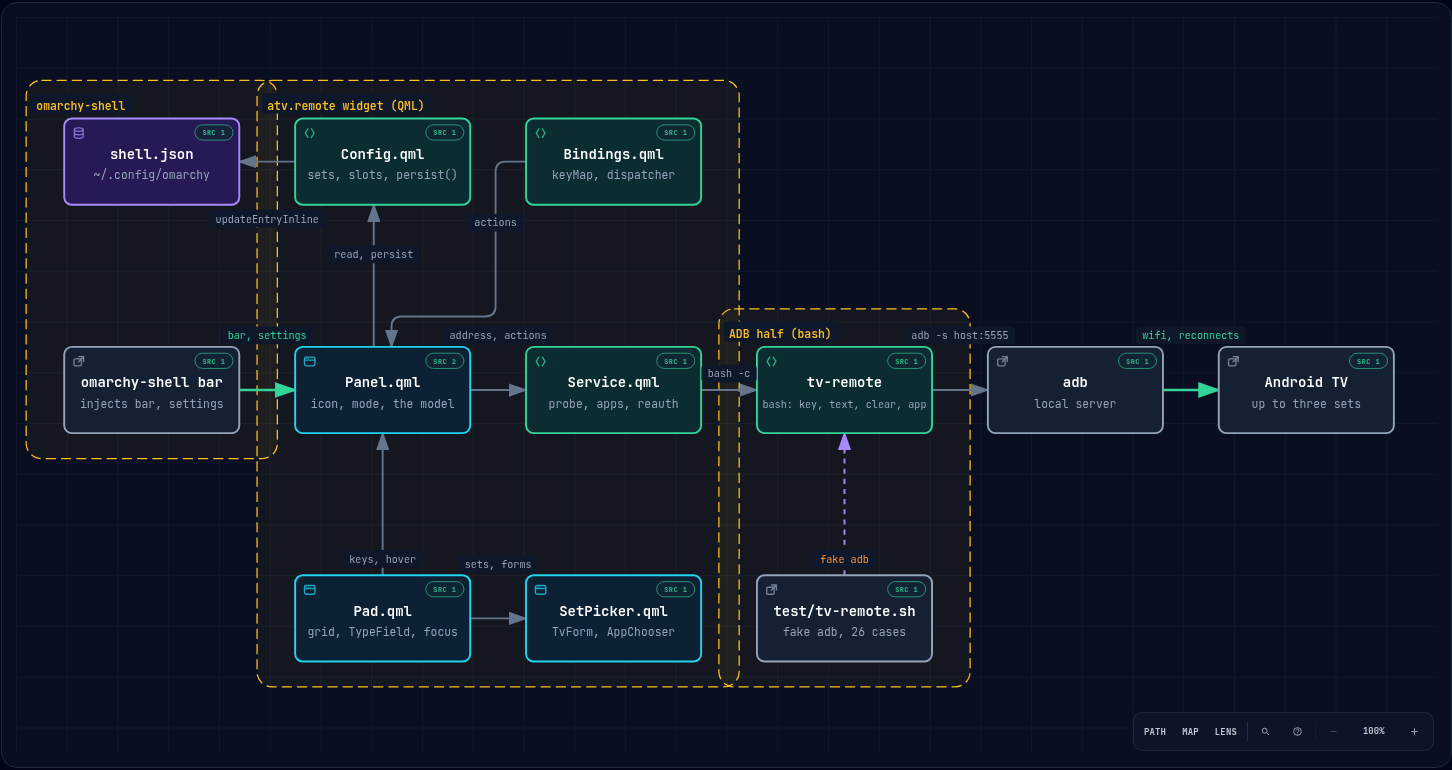
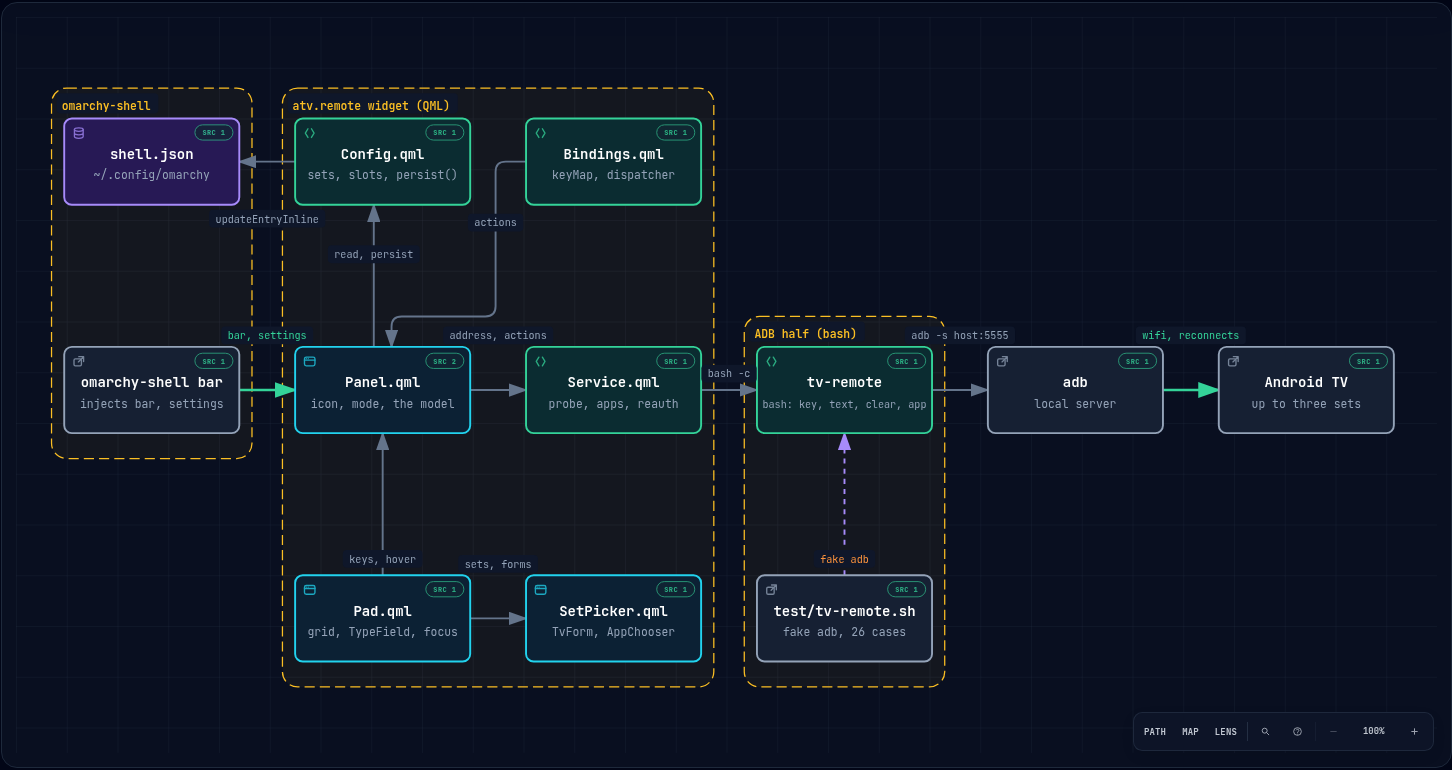
docs: the flow map's regions no longer overlap either
Its columns are 44px apart and a region box adds its default padding on
both sides, so neighbouring boxes crossed by about 15px. Explicit pad: 10
on every boundary, as the other two maps already had, and the rule in
CLAUDE.md now says so.

Claude-Session: https://claude.ai/code/session_01NsuTX3xQbZ1pzCFMGiucjP

diff --git a/docs/architecture.html b/docs/architecture.html
@@ -5156,11 +5156,11 @@ OTHER DEALINGS IN THE FONT SOFTWARE.
         <rect width="100%" height="100%" fill="url(#grid)" />
 
         <!-- Boundaries (behind everything) -->
-        <rect data-graph-role="structural-frame" data-composition-frame-kind="region" data-composition-frame-id="0" data-composition-frame-label="omarchy-shell" x="8" y="50" width="198" height="298" rx="12" class="c-region" stroke-width="1"/>
+        <rect data-graph-role="structural-frame" data-composition-frame-kind="region" data-composition-frame-id="0" data-composition-frame-label="omarchy-shell" x="28" y="56" width="158" height="292" rx="12" class="c-region" stroke-width="1"/>
 
-        <rect data-graph-role="structural-frame" data-composition-frame-kind="region" data-composition-frame-id="1" data-composition-frame-label="atv.remote widget (QML)" x="190" y="50" width="380" height="478" rx="12" class="c-region" stroke-width="1"/>
+        <rect data-graph-role="structural-frame" data-composition-frame-kind="region" data-composition-frame-id="1" data-composition-frame-label="atv.remote widget (QML)" x="210" y="56" width="340" height="472" rx="12" class="c-region" stroke-width="1"/>
 
-        <rect data-graph-role="structural-frame" data-composition-frame-kind="region" data-composition-frame-id="2" data-composition-frame-label="ADB half (bash)" x="554" y="230" width="198" height="298" rx="12" class="c-region" stroke-width="1"/>
+        <rect data-graph-role="structural-frame" data-composition-frame-kind="region" data-composition-frame-id="2" data-composition-frame-label="ADB half (bash)" x="574" y="236" width="158" height="292" rx="12" class="c-region" stroke-width="1"/>
 
         <!-- Connection paths (before components for correct z-order) -->
         <path data-edge-from="bar" data-edge-to="panel" data-edge-label="bar, settings" data-edge-key="0" data-edge-id="bar-panel" data-composition-points="176,294;220,294" d="M 176 294 L 220 294" class="a-emphasis" stroke-width="1.8" marker-end="url(#arrowhead-emphasis)"/>
@@ -5370,18 +5370,18 @@ OTHER DEALINGS IN THE FONT SOFTWARE.
 
         <!-- Boundary labels (foreground masks keep routes out of titles) -->
         <g data-graph-role="structural-frame-label" data-composition-frame-id="0" data-composition-frame-kind="region" data-composition-frame-label="omarchy-shell">
-          <rect data-graph-role="structural-frame-label-mask" x="12" y="60" width="80.2" height="16" rx="3" class="c-mask"/>
-          <text data-boundary-label="" x="16" y="73" class="t-cloud" font-size="9" font-weight="600">omarchy-shell</text>
+          <rect data-graph-role="structural-frame-label-mask" x="32" y="60" width="80.2" height="16" rx="3" class="c-mask"/>
+          <text data-boundary-label="" x="36" y="73" class="t-cloud" font-size="9" font-weight="600">omarchy-shell</text>
         </g>
 
         <g data-graph-role="structural-frame-label" data-composition-frame-id="1" data-composition-frame-kind="region" data-composition-frame-label="atv.remote widget (QML)">
-          <rect data-graph-role="structural-frame-label-mask" x="194" y="60" width="134.2" height="16" rx="3" class="c-mask"/>
-          <text data-boundary-label="" x="198" y="73" class="t-cloud" font-size="9" font-weight="600">atv.remote widget (QML)</text>
+          <rect data-graph-role="structural-frame-label-mask" x="214" y="60" width="134.2" height="16" rx="3" class="c-mask"/>
+          <text data-boundary-label="" x="218" y="73" class="t-cloud" font-size="9" font-weight="600">atv.remote widget (QML)</text>
         </g>
 
         <g data-graph-role="structural-frame-label" data-composition-frame-id="2" data-composition-frame-kind="region" data-composition-frame-label="ADB half (bash)">
-          <rect data-graph-role="structural-frame-label-mask" x="558" y="240" width="91" height="16" rx="3" class="c-mask"/>
-          <text data-boundary-label="" x="562" y="253" class="t-cloud" font-size="9" font-weight="600">ADB half (bash)</text>
+          <rect data-graph-role="structural-frame-label-mask" x="578" y="240" width="91" height="16" rx="3" class="c-mask"/>
+          <text data-boundary-label="" x="582" y="253" class="t-cloud" font-size="9" font-weight="600">ADB half (bash)</text>
         </g>
 
         <!-- Legend -->

diff --git a/CLAUDE.md b/CLAUDE.md
@@ -33,8 +33,9 @@ input picker, app shortcuts, and a text field for typing into TV search boxes.
   and the `.png` for the first two, are generated from it: change the spec, never the
   outputs. The PNGs are 1920-wide headless-chromium screenshots of the HTML, cropped to
   the diagram panel. A new QML file is a new node in `components.json` and `plugin.json`.
-  Regions are drawn as the bounding box of what they wrap, so keep a region's files in
-  columns no other region uses on the same rows, or the boxes overlap.
+  Regions are drawn as the bounding box of what they wrap plus `pad` on every side, so set
+  `pad: 10` on each boundary, keep neighbouring columns at least 24 px apart, and keep a
+  region's files in columns no other region uses on the same rows, or the boxes overlap.
 
 The widget shells out to the script; the script owns all ADB. That split keeps the remote
 usable from a terminal without the shell running, and makes the ADB half testable alone.
